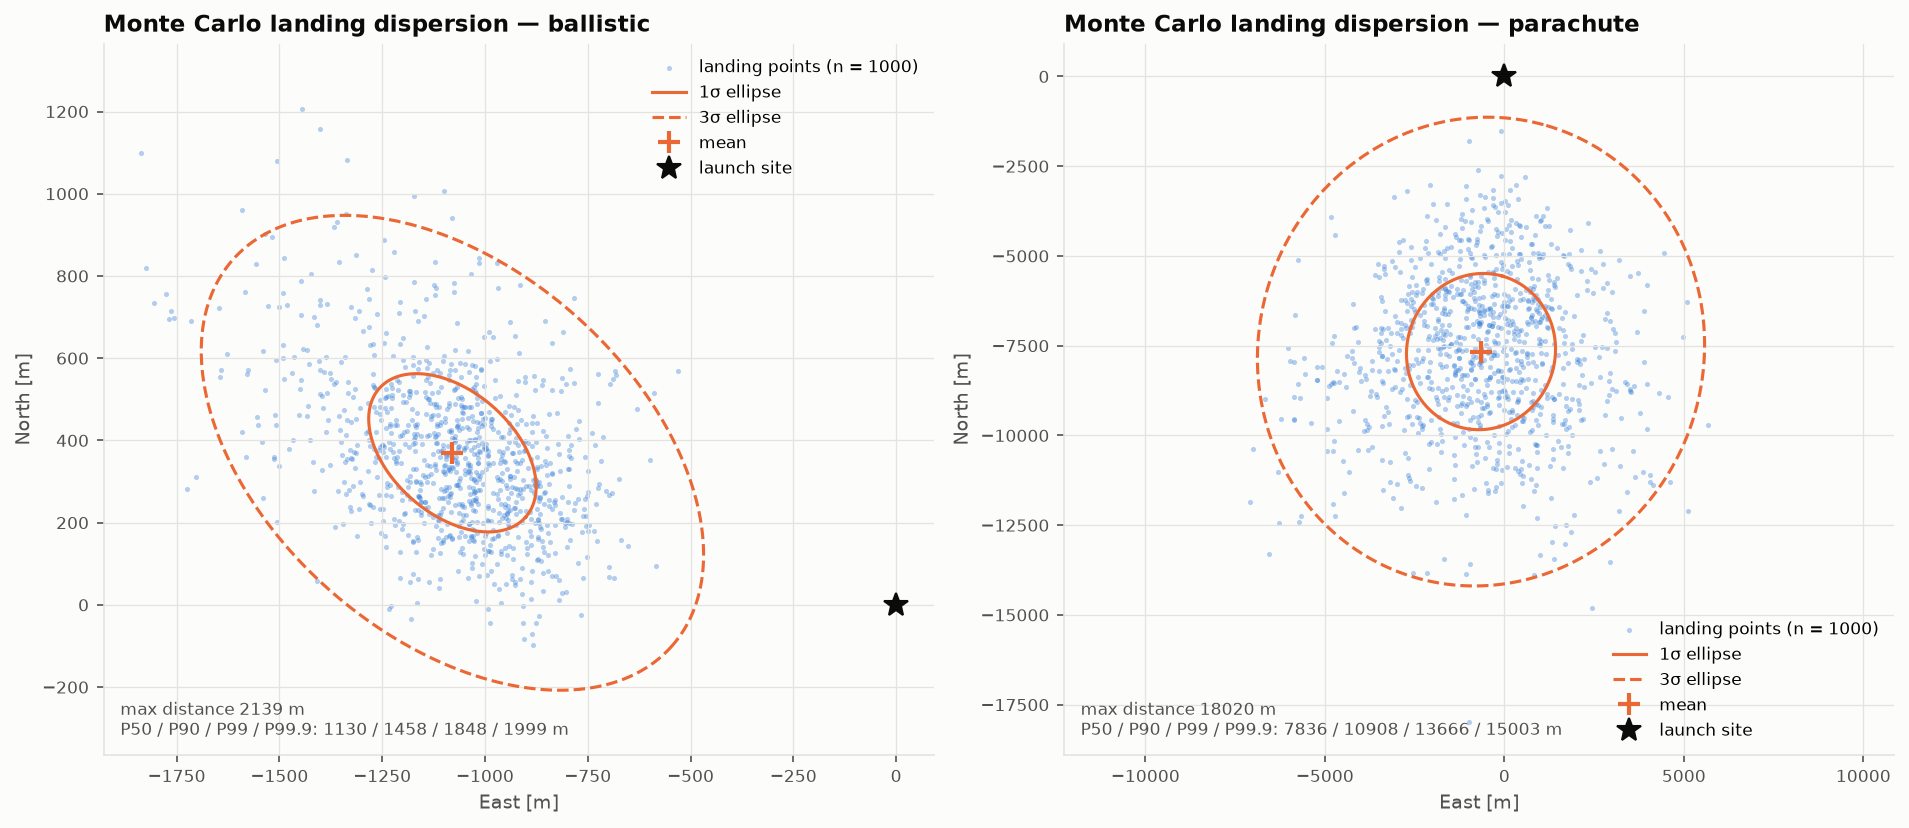
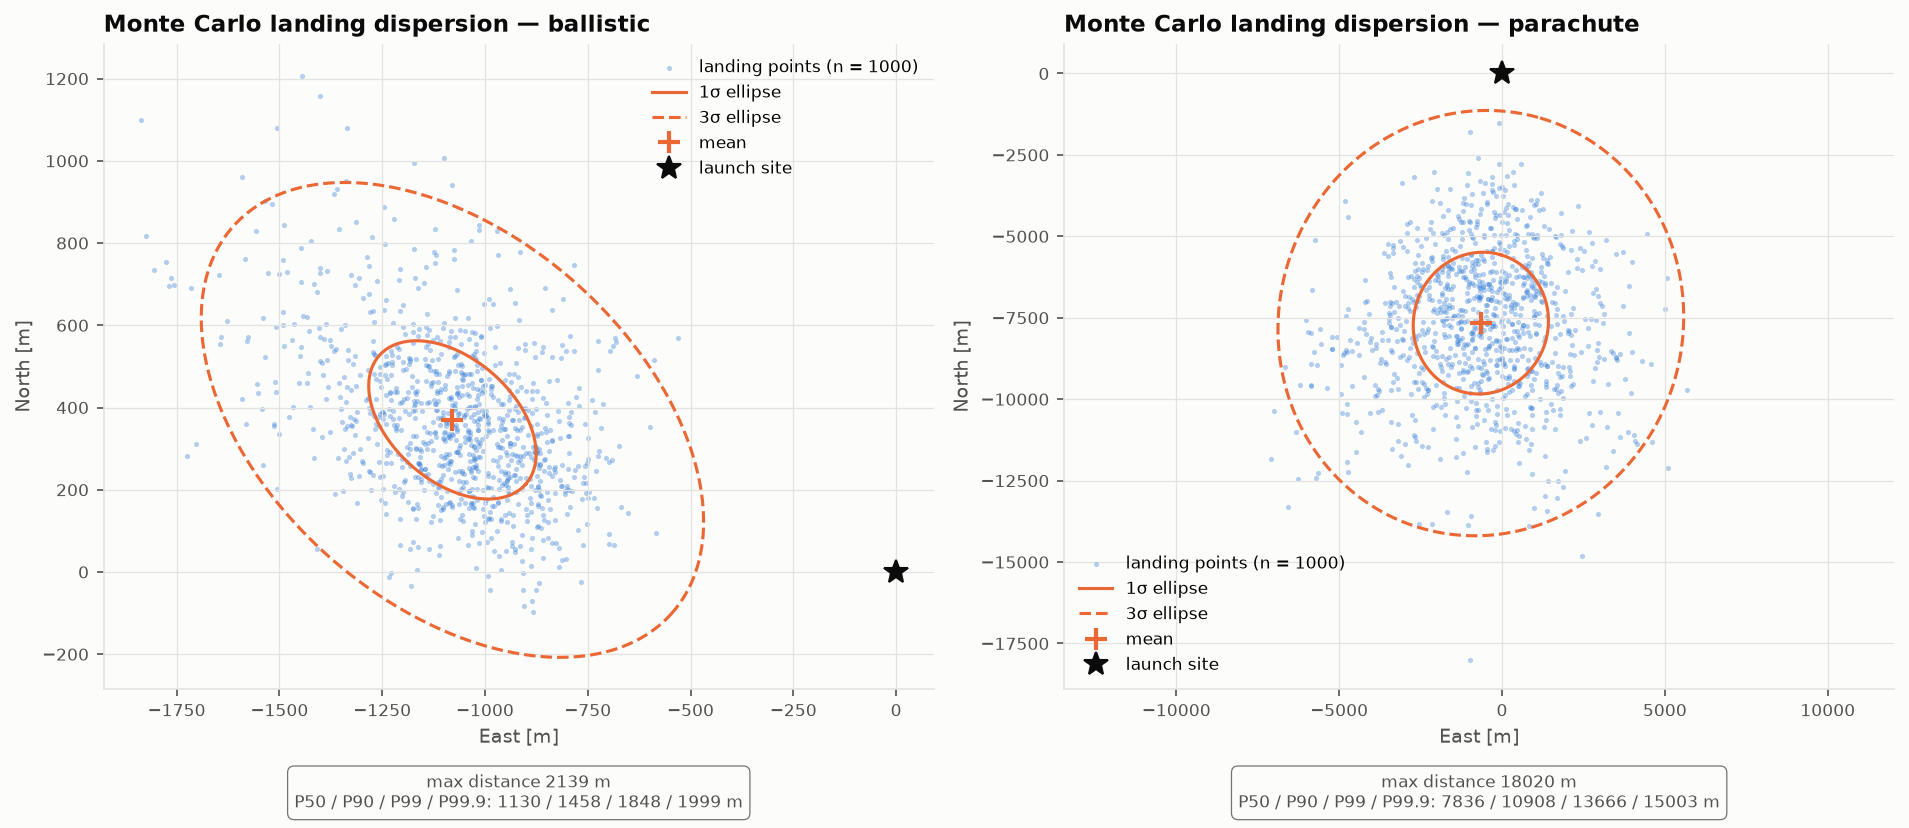
fix: compare the dispersion hashes after a failed sim, move the Monte Carlo statistics box below the axes, note a missing P99.9

diff --git a/python/test_plot.py b/python/test_plot.py
@@ -334,6 +334,34 @@ class StaleOutputs(unittest.TestCase):
             self.assertEqual(len(w), 1)
             self.assertIn("summary.json", w[0])
 
+    def test_a_failed_sim_marker_does_not_hide_a_dispersion_mismatch(self):
+        with tempfile.TemporaryDirectory() as tmp:
+            out = Path(tmp)
+            self.write(out, "summary.json", {"failed": True, "error": "state diverged"})
+            self.write(out, "dispersion_meta.json", {"flight_config_hash": "new"})
+            self.write(out, "dispersion_summary.json", {"flight_config_hash": "old"})
+            w = plot.stale_warnings(out)
+            self.assertEqual(len(w), 1)
+            self.assertIn("dispersion_meta.json", w[0])
+            self.assertNotIn("summary.json:", w[0].replace("dispersion_summary.json", ""))
+            r = subprocess.run([sys.executable, str(HERE / "plot.py"), "all", str(out)], capture_output=True, text=True)
+            self.assertIn("written for different flight configurations", r.stderr)
+            # a marker alone is silent
+            (out / "dispersion_summary.json").unlink()
+            self.assertEqual(plot.stale_warnings(out), [])
+
+    def test_dispersion_without_results_removes_the_old_pngs(self):
+        # A failed `dispersion` run deletes its result files; the next plot removes the figures of the earlier run.
+        with tempfile.TemporaryDirectory() as tmp:
+            out = Path(tmp)
+            (out / "plots").mkdir()
+            for name in ("dispersion.png", "dispersion_mc.png"):
+                (out / "plots" / name).write_bytes(b"old")
+            r = subprocess.run([sys.executable, str(HERE / "plot.py"), "all", str(out)], capture_output=True, text=True)
+            self.assertFalse((out / "plots" / "dispersion.png").exists())
+            self.assertFalse((out / "plots" / "dispersion_mc.png").exists())
+            self.assertIn("removed", r.stdout)
+
     def test_truncated_json_warns_instead_of_failing(self):
         with tempfile.TemporaryDirectory() as tmp:
             out = Path(tmp)
@@ -488,6 +516,17 @@ class Usability(unittest.TestCase):
             fig = capture_figures(plot.plot_dispersion_mc, out)["dispersion_mc.png"]
             text = "\n".join(t.get_text() for ax in fig.axes for t in ax.texts)
             self.assertIn("P50 / P90 / P99 / P99.9: 20 / 40 / 50 / 55 m", text)
+
+    def test_monte_carlo_plot_notes_the_missing_p999(self):
+        with tempfile.TemporaryDirectory() as tmp:
+            out = Path(tmp)
+            self.mc_csv(out)
+            st = {"descent": "ballistic", "n": 6, "failed": 1, "mean_east": 25.0, "mean_north": 12.5, "max_landing_distance": 60.0,
+                  "landing_distance_p50": 20.0, "landing_distance_p90": 40.0, "landing_distance_p99": 50.0, "landing_distance_p999": None}
+            (out / "dispersion_summary.json").write_text(json.dumps({**self.CLEAN, "samples": 7, "descents": [st]}))
+            fig = capture_figures(plot.plot_dispersion_mc, out)["dispersion_mc.png"]
+            text = "\n".join(t.get_text() for ax in fig.axes for t in ax.texts)
+            self.assertIn("P50 / P90 / P99: 20 / 40 / 50 m (P99.9 needs ≥ 1000 landed samples)", text)
 
     def test_grid_outline_breaks_at_broadside_cases(self):
         with tempfile.TemporaryDirectory() as tmp:

diff --git a/python/plot.py b/python/plot.py
@@ -659,11 +659,13 @@ def plot_dispersion_mc(out):
             if p999 is not None:
                 lines.append("P50 / P90 / P99 / P99.9: " + " / ".join(f"{v:.0f}" for v in pct + [p999]) + " m")
             else:
-                lines.append("P50 / P90 / P99: " + " / ".join(f"{v:.0f}" for v in pct) + " m")
+                lines.append("P50 / P90 / P99: " + " / ".join(f"{v:.0f}" for v in pct) + " m (P99.9 needs ≥ 1000 landed samples)")
         if st.get("complete") is False:
             lines.append("statistics incomplete")
         if lines:
-            ax.text(0.02, 0.02, "\n".join(lines), transform=ax.transAxes, fontsize=8, color=INK2, va="bottom")
+            # Below the axes, in a box: inside them it would cover landing points, the launch site or the legend.
+            ax.text(0.5, -0.13, "\n".join(lines), transform=ax.transAxes, fontsize=8, color=INK2, ha="center", va="top",
+                    bbox={"boxstyle": "round,pad=0.4", "facecolor": "none", "edgecolor": INK2, "linewidth": 0.6, "alpha": 0.8})
     fig.tight_layout()
     draw_usability(fig, *dispersion_usability(summ))
     save(fig, out, "dispersion_mc.png")
@@ -812,6 +814,8 @@ def stale_warnings(out):
         except (OSError, ValueError) as e:
             msgs.append(f"warning: {f} cannot be read ({e}); rerun the command that writes it")
             continue
+        if name == "summary.json" and isinstance(j, dict) and j.get("failed") is True:
+            continue  # the failure marker of a failed sim run carries no hash: the dispersion files are still compared
         h = j.get(key) if isinstance(j, dict) else None
         if h is None:
             if name != "summary.json":
@@ -847,8 +851,7 @@ def main():
     if failed is not None and a.what == "trajectory":
         remove_old_plots(a.out_dir, PNGS["trajectory"])
         sys.exit(f"error: the last sim run failed: {failed}; not plotting the old trajectory")
-    if failed is None:
-        warn_stale(a.out_dir)
+    warn_stale(a.out_dir)
     names = list(PLOTS) if a.what == "all" else [a.what]
     plotted = 0
     for name in names:
